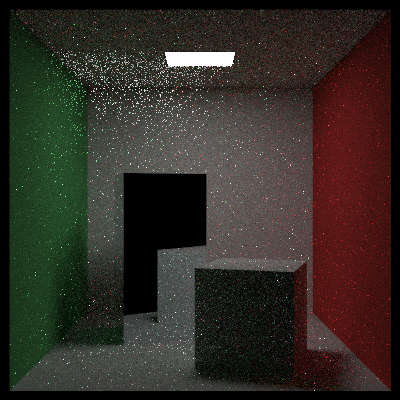
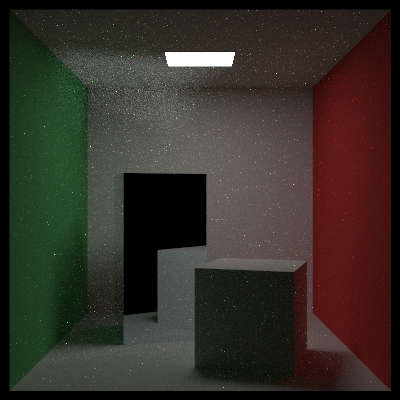
backup

diff --git a/RayTracer/src/material.rs b/RayTracer/src/material.rs
@@ -7,7 +7,7 @@ type Color = Vec3;
 use crate::rtweekend::random_double;
 use crate::texture::{Texture, SolidColor};
 use std::sync::Arc;
-use crate::onb::ONB;
+// use crate::onb::ONB;
 use crate::pdf::{Pdf, CosinePdf, SpherePdf};
 
 #[derive(Clone, Default)]
@@ -19,14 +19,14 @@ pub struct ScatterRecord {
 }
 
 pub trait Material: Any {
-    fn scatter(&self, r_in: &Ray, rec: &HitRecord, scatter_rec: &mut ScatterRecord) -> bool {
+    fn scatter(&self, _r_in: &Ray, _rec: &HitRecord, _scatter_rec: &mut ScatterRecord) -> bool {
         false
     }
-    fn emitted(&self, r_in: &Ray, rec: &HitRecord, _u: f64, _v: f64, _p: &Vec3) -> Color {
+    fn emitted(&self, _r_in: &Ray, _rec: &HitRecord, _u: f64, _v: f64, _p: &Vec3) -> Color {
         Color::zero()
     }
     fn as_any(&self) -> &dyn Any;
-    fn scattering_pdf(&self, r_in: &Ray, rec: &HitRecord, scattered: &Ray) -> f64 {
+    fn scattering_pdf(&self, _r_in: &Ray, _rec: &HitRecord, _scattered: &Ray) -> f64 {
         0.0
     }
 }
@@ -52,7 +52,7 @@ impl Lambertian {
 }
 
 impl Material for Lambertian {
-    fn scatter(&self, r_in: &Ray, rec: &HitRecord, scatter_rec: &mut ScatterRecord) -> bool {
+    fn scatter(&self, _r_in: &Ray, rec: &HitRecord, scatter_rec: &mut ScatterRecord) -> bool {
         scatter_rec.attenuation = self.tex.value(rec.u, rec.v, &rec.p);
         scatter_rec.pdf_ptr = Some(Arc::new(CosinePdf::new(rec.normal)));
         scatter_rec.skip_pdf = false;
@@ -61,7 +61,7 @@ impl Material for Lambertian {
     fn as_any(&self) -> &dyn Any {
         self
     }
-    fn scattering_pdf(&self, r_in: &Ray, rec: &HitRecord, scattered: &Ray) -> f64 {
+    fn scattering_pdf(&self, _r_in: &Ray, _rec: &HitRecord, _scattered: &Ray) -> f64 {
         1.0 / (2.0 * std::f64::consts::PI)
     }
 }
@@ -158,7 +158,7 @@ impl DiffuseLight {
 }
 
 impl Material for DiffuseLight {
-    fn emitted(&self, r_in: &Ray, rec: &HitRecord, u: f64, v: f64, p: &Vec3) -> Color {
+    fn emitted(&self, _r_in: &Ray, rec: &HitRecord, u: f64, v: f64, p: &Vec3) -> Color {
         if !rec.front_face {
             return Color::zero();
         }
@@ -188,14 +188,14 @@ impl Isotropic {
 }
 
 impl Material for Isotropic {
-    fn scatter(&self, r_in: &Ray, rec: &HitRecord, scatter_rec: &mut ScatterRecord) -> bool {
+    fn scatter(&self, _r_in: &Ray, rec: &HitRecord, scatter_rec: &mut ScatterRecord) -> bool {
         scatter_rec.attenuation = self.tex.value(rec.u, rec.v, &rec.p);
         scatter_rec.pdf_ptr = Some(Arc::new(SpherePdf::new()));
         scatter_rec.skip_pdf = false;
         true
     }
 
-    fn scattering_pdf(&self, r_in: &Ray, rec: &HitRecord, scattered: &Ray) -> f64 {
+    fn scattering_pdf(&self, _r_in: &Ray, _rec: &HitRecord, _scattered: &Ray) -> f64 {
         1.0 / (4.0 * std::f64::consts::PI)
     }
     fn as_any(&self) -> &dyn Any {

diff --git a/RayTracer/src/main.rs b/RayTracer/src/main.rs
@@ -247,26 +247,37 @@ fn cornell_box() {
     // world.addlist(make_box(Point3::new(130.0, 0.0, 65.0), Point3::new(295.0, 165.0, 230.0), white.clone()));
     // world.addlist(make_box(Point3::new(265.0, 0.0, 295.0), Point3::new(430.0, 330.0, 460.0), white));
 
-    // Box
-    let box1 = Arc::new(make_box(Point3::new(0.0, 0.0, 0.0), Point3::new(165.0, 330.0, 165.0), white.clone()));
+    let aluminum = Some(Arc::new(material::Metal::new(Vec3::new(0.8, 0.85, 0.88), 0.0)) as Arc<dyn Material + Send + Sync>);
+    let box1 = Arc::new(make_box(Point3::new(0.0, 0.0, 0.0), Point3::new(165.0, 330.0, 165.0), aluminum));
     let box1 = Arc::new(RotateY::new(box1, 15.0));
     let box1 = Arc::new(Translate::new(box1, Vec3::new(265.0, 0.0, 295.0)));
     world.add(box1);
 
-    // Glass Sphere
-    let glass = Some(Arc::new(material::Dielectric::new(1.5)) as Arc<dyn Material + Send + Sync>);
-    world.add(Arc::new(sphere::Sphere::new(Point3::new(190.0, 90.0, 190.0), 90.0, glass)));
+    let box2 = Arc::new(make_box(Point3::new(0.0, 0.0, 0.0), Point3::new(165.0, 165.0, 165.0), white.clone()));
+    let box2 = Arc::new(RotateY::new(box2, -18.0));
+    let box2 = Arc::new(Translate::new(box2, Vec3::new(130.0, 0.0, 65.0)));
+    world.add(box2);
+
+    // // Box
+    // let box1 = Arc::new(make_box(Point3::new(0.0, 0.0, 0.0), Point3::new(165.0, 330.0, 165.0), white.clone()));
+    // let box1 = Arc::new(RotateY::new(box1, 15.0));
+    // let box1 = Arc::new(Translate::new(box1, Vec3::new(265.0, 0.0, 295.0)));
+    // world.add(box1);
+
+    // // Glass Sphere
+    // let glass = Some(Arc::new(material::Dielectric::new(1.5)) as Arc<dyn Material + Send + Sync>);
+    // world.add(Arc::new(sphere::Sphere::new(Point3::new(190.0, 90.0, 190.0), 90.0, glass)));
 
     let mut lights = hit_list::HittableList::new();
     let m: Option<Arc<dyn Material + Send + Sync>> = None;
     lights.add(Arc::new(quad::Quad::new(Point3::new(343.0, 554.0, 332.0), Vec3::new(-130.0, 0.0, 0.0), Vec3::new(0.0, 0.0, -105.0), m.clone())));
-    lights.add(Arc::new(sphere::Sphere::new(Point3::new(190.0, 90.0, 190.0), 90.0, m)));
+    // lights.add(Arc::new(sphere::Sphere::new(Point3::new(190.0, 90.0, 190.0), 90.0, m)));
 
     let width = 400;
     let height = 400;
     let mut cam = camera::Camera::new(height, width);
 
-    cam.samples_per_pixel = 1000;
+    cam.samples_per_pixel = 100;
     cam.max_depth = 50;
     cam.background = Vec3::new(0.0, 0.0, 0.0);
 

diff --git a/RayTracer/src/ray.rs b/RayTracer/src/ray.rs
@@ -66,15 +66,25 @@ impl Ray {
             return color_from_emission;
         }
 
-        if srec.skip_pdf {
-            return srec.attenuation * srec.skip_pdf_ray.ray_color(background, depth - 1, world, lights);
-        }
+        // if srec.skip_pdf {
+        //     return srec.attenuation * srec.skip_pdf_ray.ray_color(background, depth - 1, world, lights);
+        // }
 
-        let light_ptr = Arc::new(HittablePdf::new(lights.clone(), rec.p));
-        let p = MixturePdf::new(light_ptr, srec.pdf_ptr);
+        // let light_ptr = Arc::new(HittablePdf::new(lights.clone(), rec.p));
+        // let p = MixturePdf::new(light_ptr, srec.pdf_ptr);
 
-        let scattered = Ray::new(rec.p, p.generate(), self.time());
-        let pdf_val = p.value(scattered.direction());
+        // let scattered = Ray::new(rec.p, p.generate(), self.time());
+        // let pdf_val = p.value(scattered.direction());
+
+        // let scattering_pdf = mat.scattering_pdf(self, &rec, &scattered);
+
+        // let sample_color = scattered.ray_color(background, depth - 1, world, lights);
+        // let color_from_scatter = (srec.attenuation * scattering_pdf * sample_color) / pdf_val;
+
+
+        let light_pdf = HittablePdf::new(lights.clone(), rec.p);
+        let scattered = Ray::new(rec.p, light_pdf.generate(), self.time());
+        let pdf_val = light_pdf.value(scattered.direction());
 
         let scattering_pdf = mat.scattering_pdf(self, &rec, &scattered);
 
